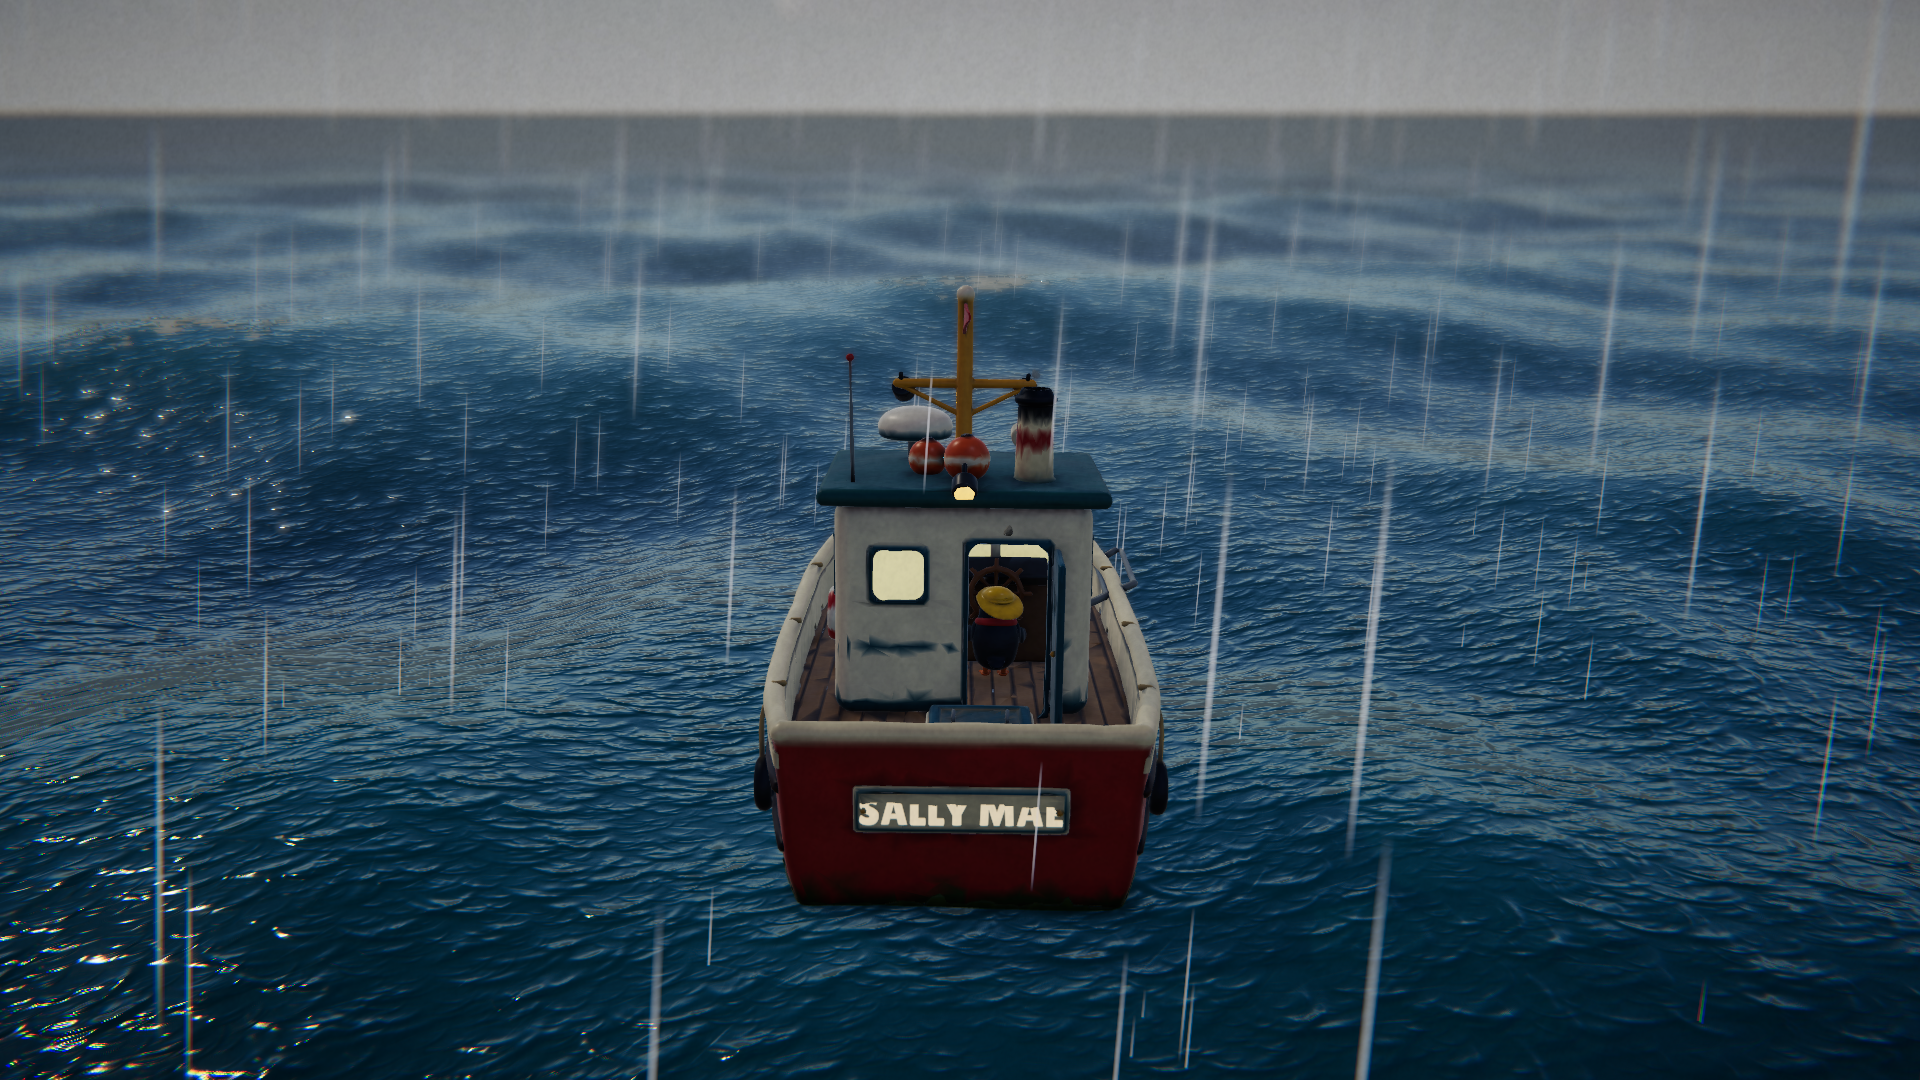
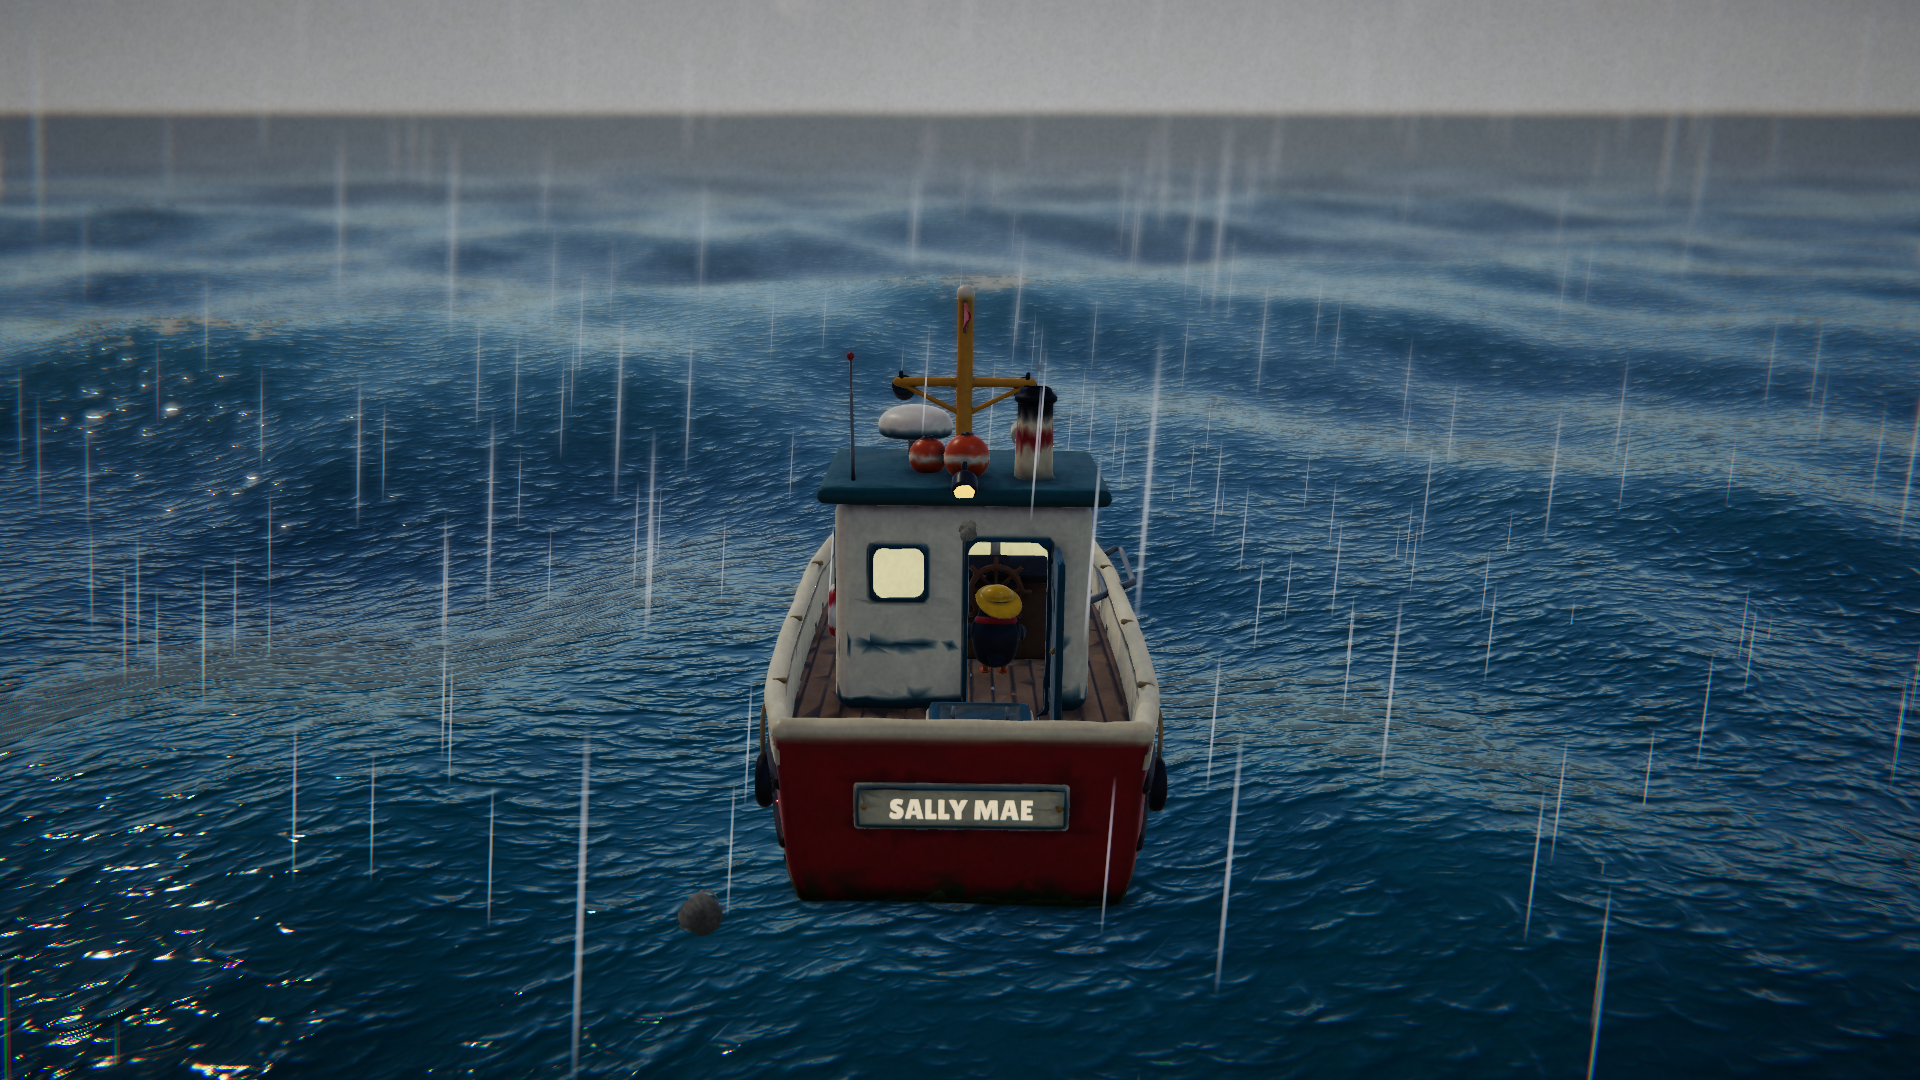
Final polish for v1.0.0: name board, trailer shots, Linux check
- The Sally Mae's name board text auto-sizes between the bolts and stands
  proud of the board, so "SALLY MAE" no longer reads "SALLY MAL"
- boat_out and sunset_home trailer shots moved clear of the harbour-mouth
  rocks the camera was flying through; trailer and teaser re-cut
- Linux check takes several shots and allows for slow software GL
- release.sh can package without publishing (SM_NO_PUBLISH=1)
- README: archive size, Linux test status, fresh Grey Deep still

diff --git a/Game/Assets/Saltmoss/Scripts/Editor/WorldBuilder.cs b/Game/Assets/Saltmoss/Scripts/Editor/WorldBuilder.cs
@@ -433,11 +433,18 @@ namespace Saltmoss.EditorTools
                     tgo.transform.SetParent(name, false);
                     var tmp = tgo.AddComponent<TMPro.TextMeshPro>();
                     tmp.text = "SALLY MAE";
-                    tmp.fontSize = 3.2f;
+                    // fit between the two brass bolts on the 1.64 m board
+                    tmp.rectTransform.sizeDelta = new Vector2(1.3f, 0.26f);
+                    tmp.textWrappingMode = TMPro.TextWrappingModes.NoWrap;
+                    tmp.enableAutoSizing = true;
+                    tmp.fontSizeMin = 1f;
+                    tmp.fontSizeMax = 3.2f;
                     tmp.alignment = TMPro.TextAlignmentOptions.Center;
                     tmp.color = new Color(0.96f, 0.92f, 0.82f);
                     var ui = AssetDatabase.LoadAssetAtPath<UIBank>($"{BankBuilder.ResDir}/UIBank.asset");
                     if (ui != null && ui.display != null) tmp.font = ui.display;
+                    // stand proud of the tilted, lumpy board so its top edge doesn't swallow the letters
+                    tgo.transform.localPosition = new Vector3(0f, 0f, 0.03f);
                     tgo.transform.localRotation = Quaternion.Euler(0, 180f, 0);
                 }
             }

diff --git a/Game/Assets/Saltmoss/Scripts/Runtime/Trailer/TrailerDirector.cs b/Game/Assets/Saltmoss/Scripts/Runtime/Trailer/TrailerDirector.cs
@@ -145,7 +145,7 @@ namespace Saltmoss
                 nell?.GetComponentInChildren<CritterAnimator>()?.Play(Gesture.Wave, 2f);
             }, t => Dolly(A(shop, 2.5f, 1.6f, 6.5f), A(shop, 1.6f, 1.4f, 4.6f), A(shop, -0.5f, 1.2f, 0f), A(shop, -0.5f, 1.1f, 0f), t, 32f));
 
-            Add("boat_out", 6.5f, () => { Hour(11f); Clear(); BoatAt(mouth + new Vector3(4, 0, -38), 2f, 7.5f); },
+            Add("boat_out", 6.5f, () => { Hour(11f); Clear(); BoatAt(mouth + new Vector3(0, 0, 10), 2f, 7.5f); },
                 t =>
                 {
                     var b = Boat.transform;
@@ -286,7 +286,7 @@ namespace Saltmoss
             {
                 Hour(18.6f, (int)Weather.Breezy);
                 if (DayCycle.I != null) DayCycle.I.fogBoost = 1f;
-                BoatAt(mouth + new Vector3(6, 0, 30), 186f, 5f);
+                BoatAt(mouth + new Vector3(6, 0, 50), 186f, 5f);
             }, t =>
             {
                 var b = Boat.transform;

diff --git a/README.md b/README.md
@@ -111,7 +111,7 @@ Download each file from https://github.com/gazhenko/saltmoss-harbor/releases/dow
   Checksums                      SHA256SUMS.txt
 
 1. Detect the OS and CPU. If this computer is not one of the three platforms above (for example Windows or Linux on ARM), stop and tell me.
-2. Check there is at least 1 GB free. Download the matching archive (about SIZE_MB MB) and SHA256SUMS.txt into a temporary folder with curl -L (curl.exe on Windows).
+2. Check there is at least 1 GB free. Download the matching archive (about 180 MB) and SHA256SUMS.txt into a temporary folder with curl -L (curl.exe on Windows).
 3. Compute the archive's SHA-256 and compare it with its line in SHA256SUMS.txt. If it does not match, delete the download and stop.
 4. Install it, replacing any earlier Saltmoss Harbor install at the same location:
    - macOS: run ditto -x -k <archive> ~/Applications so the app ends up at "~/Applications/Saltmoss Harbor.app". The build is ad-hoc signed and not notarized; if the app carries a com.apple.quarantine attribute, remove it with xattr -dr com.apple.quarantine on the app.
@@ -130,7 +130,8 @@ Download the archive for your computer from the [latest release](../../releases/
   notarized). If macOS says it is damaged: `xattr -dr com.apple.quarantine "Saltmoss Harbor.app"`.
 - **Windows** (x64): extract the zip into a new folder and run `SaltmossHarbor.exe`. The Windows player is built from the same source as the others but hasn't been run on Windows yet; please report problems in an issue.
 - **Linux** (x64): extract into a new folder with `tar -xzf SaltmossHarbor-v1.0.0-Linux-x64.tar.gz`, then
-  `chmod +x SaltmossHarbor.x86_64 && ./SaltmossHarbor.x86_64` (Vulkan or OpenGL 4.5).
+  `chmod +x SaltmossHarbor.x86_64 && ./SaltmossHarbor.x86_64` (Vulkan or OpenGL 4.5). The Linux player has been
+  started and rendered under software OpenGL but not yet played on real Linux hardware.
 
 The Windows and Linux archives have no top-level folder, so extract them into an empty folder of their own.
 
